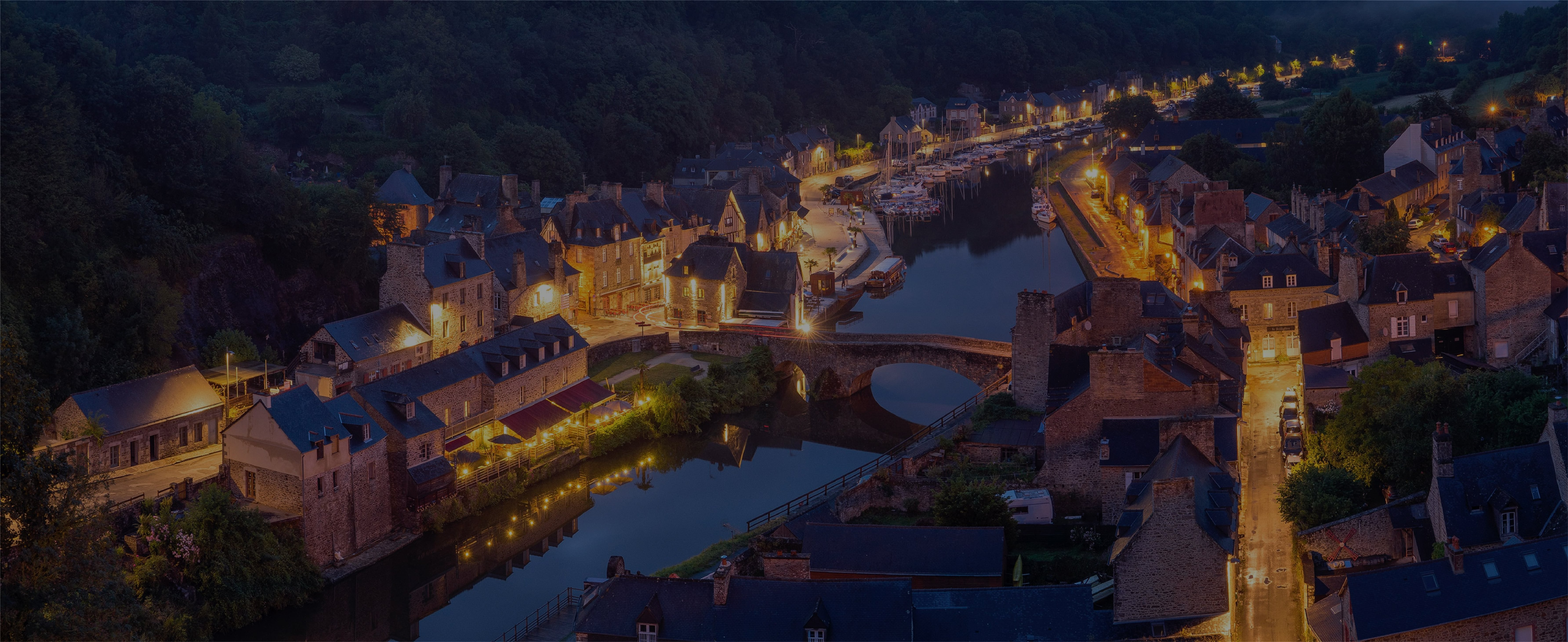
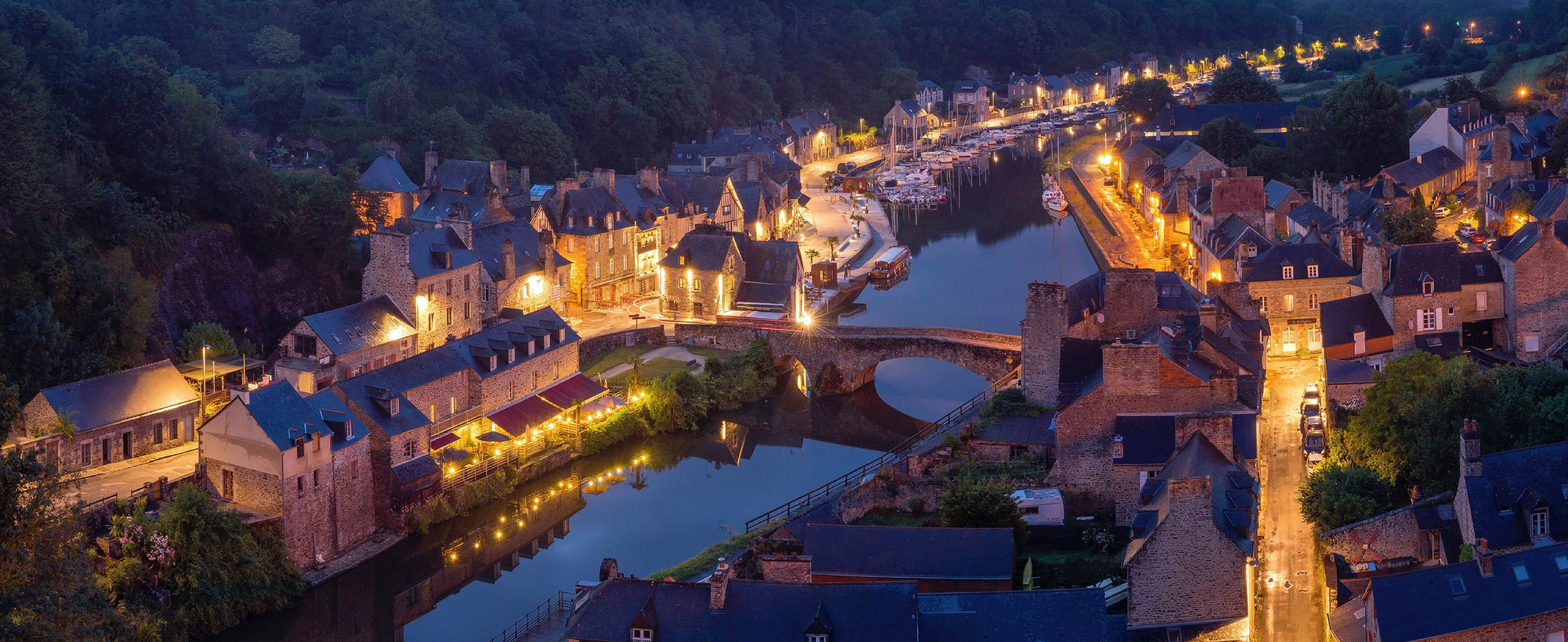
primer commit

diff --git a/styles.css b/styles.css
@@ -48,15 +48,9 @@ html { /*Esto es para que el footer se quede abajo*/
     margin: auto;
     margin-top: 1.5rem;
     display: grid;
-    grid-template-columns: repeat(2, 1fr);
+    grid-template-columns: 30% 70%;
     z-index: 1;
 }
-
-@media (max-width: 600px) {
-    .contenedor-principal{
-        grid-template-columns: 1fr;
-    }
-  }
 
 .contenedor-foto-link-insta{
     width: 100%;
@@ -83,7 +77,7 @@ html { /*Esto es para que el footer se quede abajo*/
     transition-delay: 60ms;
 
     position: relative;
-    top: 1rem;
+    top: 2.5rem;
 }
 
 .link-insta:hover{
@@ -117,36 +111,49 @@ html { /*Esto es para que el footer se quede abajo*/
     color: var(--blanco-1);
     font-size: 7rem;
     justify-self: end;
+    text-align: end;
 
     position: relative;
     bottom: 4rem;
 }
 
-@media (max-width: 600px) {
+@media (max-width: 1042px) {
+    .titulo-pagina{
+        
+        font-size: 5rem;
+        
+    }
+}
+
+@media (max-width: 810px) {
+    .titulo-pagina{
+        
+        font-size: 3.5rem;
+        
+    }
+}
+
+@media (max-width: 670px) {
     .imagen-header{
         height: 12rem;
     }
     .imagen-principal{
         width: 12.5rem;
-        justify-self: center;
-        
         position: relative;
-        top: 2rem;
+        bottom: 2rem;
+        
     } 
 
     .titulo-pagina{
         font-size: 2rem;
-        justify-self: center;
-
-        position: relative;
-        bottom: 14rem;
     }
 
     .link-insta{
         font-size: 1rem;
-        justify-self: center;
-
         margin-bottom: 1rem;
+
+        position: relative;
+        top: 1rem;
     }
 
     .fa-instagram{
@@ -213,7 +220,7 @@ html { /*Esto es para que el footer se quede abajo*/
 @media (max-width: 600px) {
     .presentacion{
         text-align: justify;
-        margin-top: 1.5rem;
+        margin-top: 0rem;
     }
   }
 
@@ -244,8 +251,12 @@ html { /*Esto es para que el footer se quede abajo*/
     height: 100%;
 }
 
-.animacion-contenedores :hover{
-    transform: rotate(-2deg);
+@media (min-width: 600px) {
+
+    .animacion-contenedores :hover{
+        transform: rotate(-2deg);
+    }
+    
 }
 
 .contenedor-1{
@@ -268,42 +279,47 @@ html { /*Esto es para que el footer se quede abajo*/
 }
 
 .europa{
-    background-image: url(images-index/europa-01.jpg);
+    background-image: linear-gradient(rgba(0, 0, 0, 0.2), rgba(0, 0, 0, 0.2)), url(images-index/europa-01.jpg);
     background: cover;
-
-    transition-duration: 60ms;
-}
-
-.europa:hover{
-    background-image: linear-gradient(rgba(0, 0, 0, 0.5), rgba(0, 0, 0, 0.5)), url(images-index/europa-01.jpg);
 
     transition-duration: 60ms;
 }
 
 .organiza-tu-viaje{
-    background-image: url(images-index/organiza-tu-viaje-01.jpg);
+    background-image: linear-gradient(rgba(0, 0, 0, 0.2), rgba(0, 0, 0, 0.2)), url(images-index/organiza-tu-viaje-01.jpg);
     background: cover;
-
-    transition-duration: 60ms;
-}
-
-.organiza-tu-viaje:hover{
-    background-image: linear-gradient(rgba(0, 0, 0, 0.5), rgba(0, 0, 0, 0.5)), url(images-index/organiza-tu-viaje-01.jpg);
 
     transition-duration: 60ms;
 }
 
 .contenido-exclusivo{
-    background-image: url(images-index/mapa.jpg);
+    background-image: linear-gradient(rgba(0, 0, 0, 0.2), rgba(0, 0, 0, 0.2)), url(images-index/contenido-exclusivo-01.jpg);
     background: cover;
 
     transition-duration: 60ms;
 }
 
-.contenido-exclusivo:hover{
-    background-image: linear-gradient(rgba(0, 0, 0, 0.5), rgba(0, 0, 0, 0.5)), url(images-index/mapa.jpg);
+@media (min-width: 600px) {
 
-    transition-duration: 60ms;
+    .europa:hover{
+        background-image: linear-gradient(rgba(0, 0, 0, 0.5), rgba(0, 0, 0, 0.5)), url(images-index/europa-01.jpg);
+    
+        transition-duration: 60ms;
+    }
+
+    .organiza-tu-viaje:hover{
+        background-image: linear-gradient(rgba(0, 0, 0, 0.5), rgba(0, 0, 0, 0.5)), url(images-index/organiza-tu-viaje-01.jpg);
+    
+        transition-duration: 60ms;
+    }
+
+    
+    .contenido-exclusivo:hover{
+        background-image: linear-gradient(rgba(0, 0, 0, 0.5), rgba(0, 0, 0, 0.5)), url(images-index/contenido-exclusivo-01.jpg);
+
+        transition-duration: 60ms;
+    }
+    
 }
 
 /*BOTÓN INSTAGRAM*/

diff --git a/secciones/blog/blog-y-novedades.js b/secciones/blog/blog-y-novedades.js
@@ -109,7 +109,7 @@ function mostrarNotas(a, b, c) {
                     const divAutogenerado = document.createElement("div");
                     const contenidoAutoGenerado = //Las `` siguientes se utilizan para hacer un html literal
                     `
-                    <div class="contenedor-nota-individual" style="background-image: linear-gradient(rgba(0, 0, 0, 0.6), rgba(0, 0, 0, 0.6)), url(${rutaFoto}${fotoNota});">
+                    <div class="contenedor-nota-individual" style="background-image: linear-gradient(rgba(0, 0, 0, 0.4), rgba(0, 0, 0, 0.4)), url(${rutaFoto}${fotoNota});">
 
                         <h2 class="titulo-nota">${tituloNota}</h2>
 

diff --git a/secciones/blog/blog-y-novedades-styles.css b/secciones/blog/blog-y-novedades-styles.css
@@ -28,10 +28,14 @@
     transition-duration: 60ms;
 }
 
-.contenedor-nota-individual:hover{
-    transform: rotate(-5deg);
+@media (min-width: 600px) {
 
-    transition-duration: 60ms;
+    .contenedor-nota-individual:hover{
+        transform: rotate(-5deg);
+    
+        transition-duration: 60ms;
+    }
+    
 }
 
 @media (min-width: 730px) { /*Más que 730 pixeles tiene un height específico para que en pantalla grande no quede una nota más grande que otra*/
